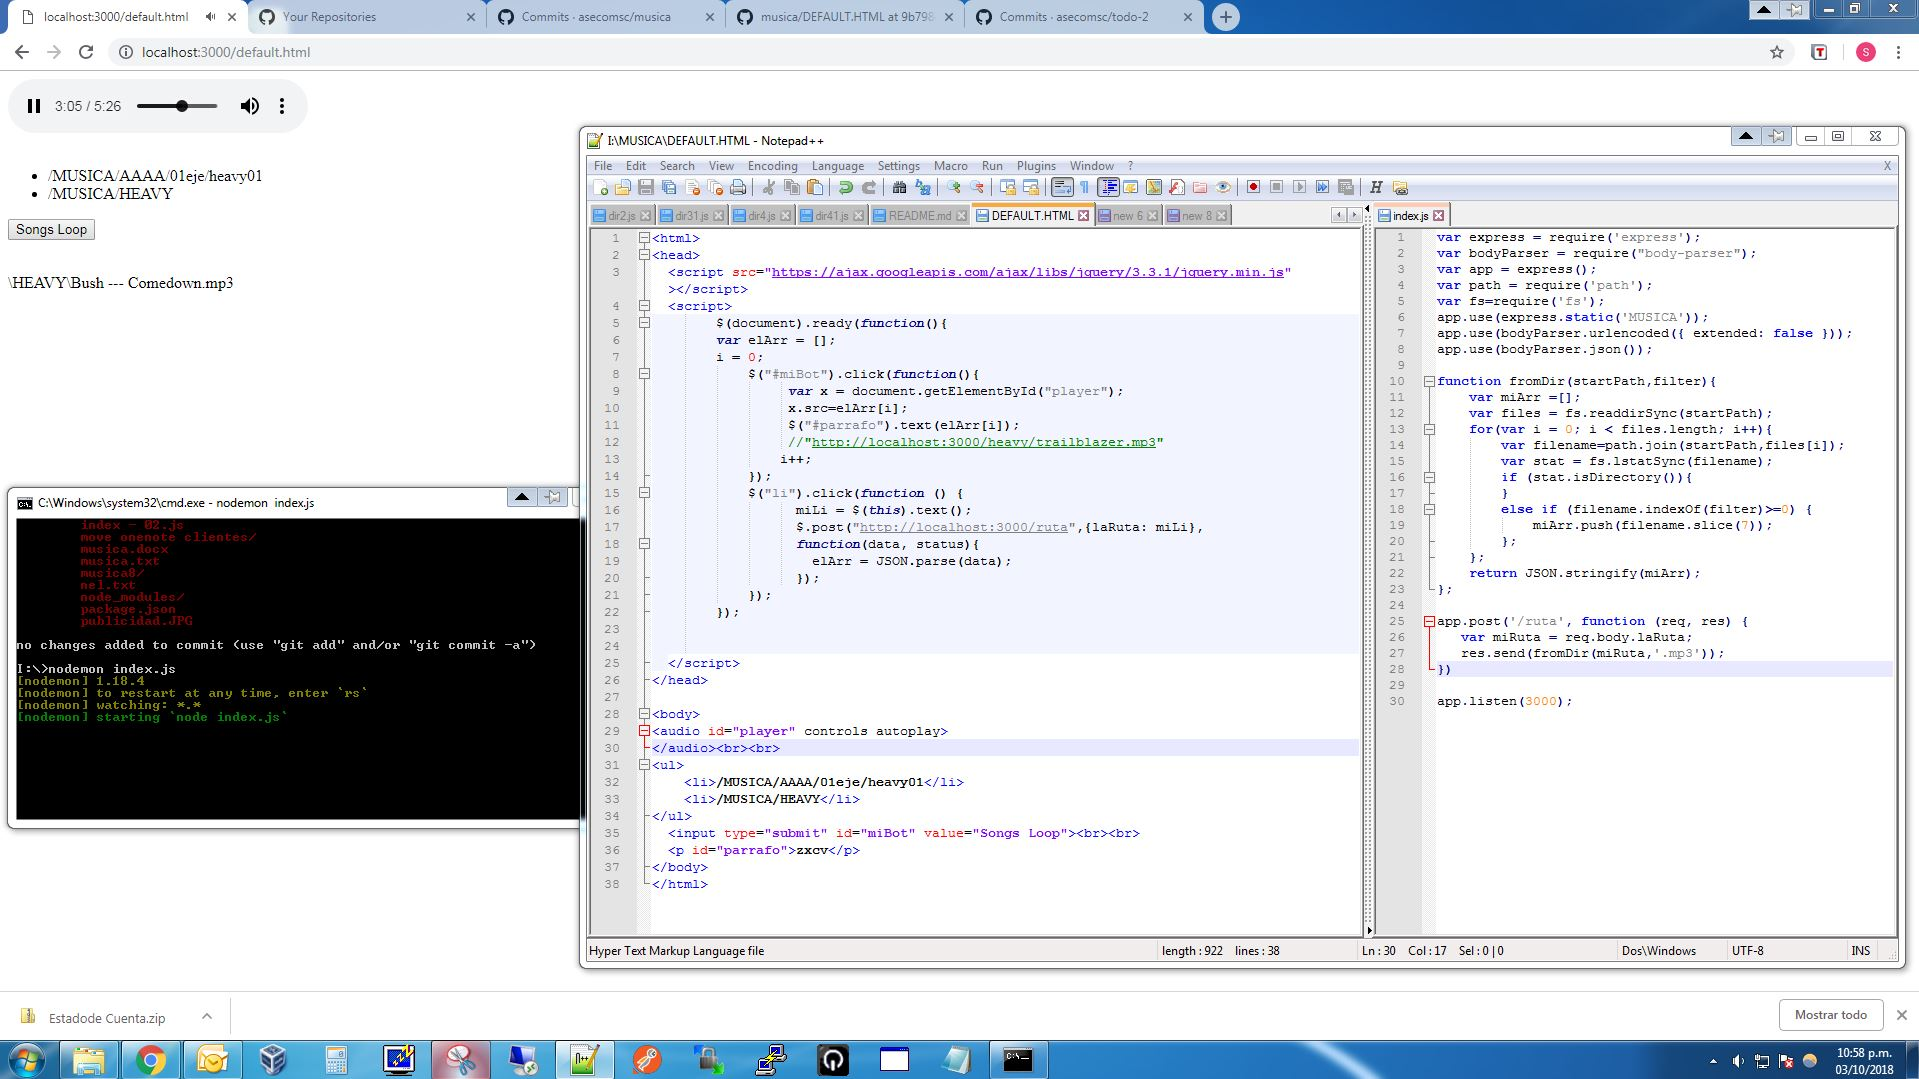
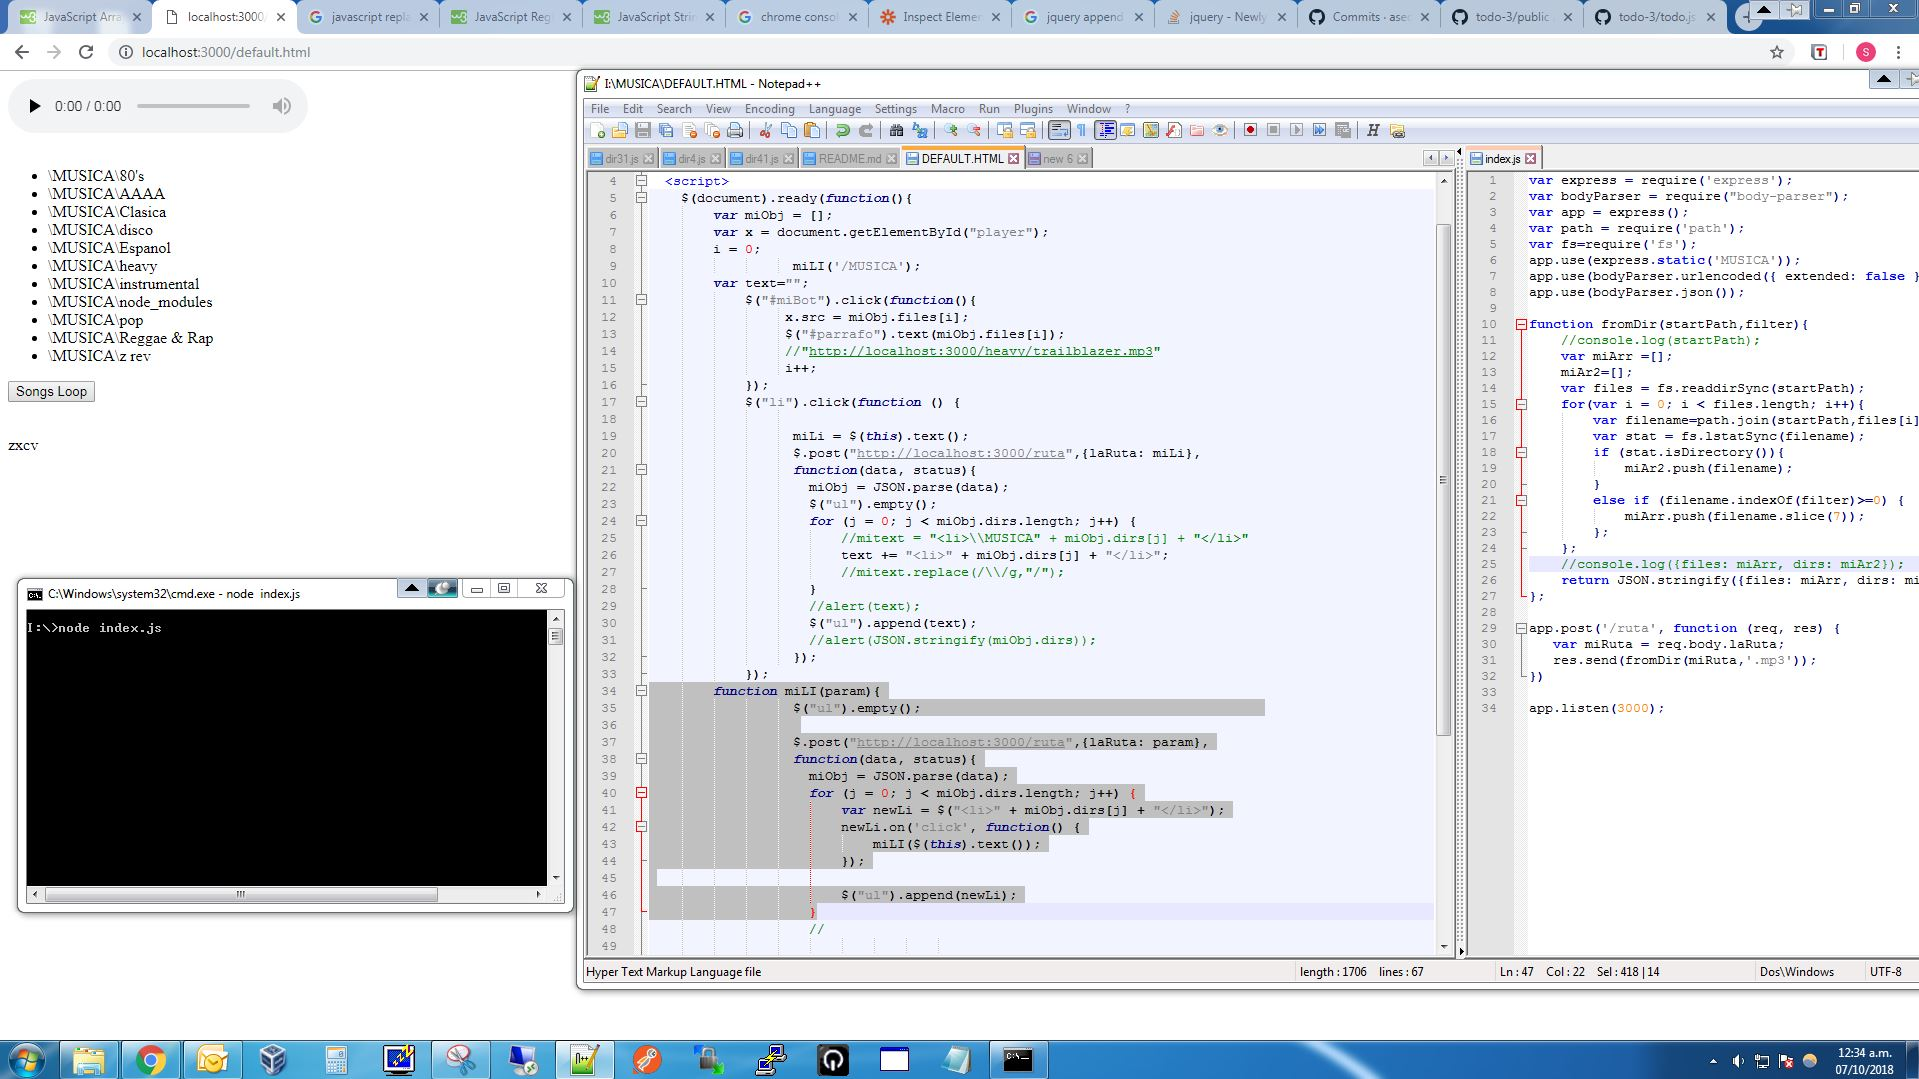
v1.6 YA SE PUEDE NAVEGAR EN LOS DIRECTORIOS

diff --git a/musica/DEFAULT.HTML b/musica/DEFAULT.HTML
@@ -2,24 +2,55 @@
 <head>
   <script src="https://ajax.googleapis.com/ajax/libs/jquery/3.3.1/jquery.min.js"></script>
   <script>
-		$(document).ready(function(){
-		var elArr = [];		
+	$(document).ready(function(){
+		var miObj = [];		
+		var x = document.getElementById("player");
 		i = 0;
+			      miLI('/MUSICA');
+		var text="";
 			$("#miBot").click(function(){
-			     var x = document.getElementById("player");
-				 x.src=elArr[i];
-				 $("#parrafo").text(elArr[i]);
+				 x.src = miObj.files[i];
+				 $("#parrafo").text(miObj.files[i]);
 				 //"http://localhost:3000/heavy/trailblazer.mp3"
-				i++;
+				 i++;
 			});
             $("li").click(function () {
+
 				  miLi = $(this).text();
 				  $.post("http://localhost:3000/ruta",{laRuta: miLi},
 				  function(data, status){
-					elArr = JSON.parse(data);
-				  });				
-            });			
-		});
+					miObj = JSON.parse(data);
+					$("ul").empty();
+					for (j = 0; j < miObj.dirs.length; j++) {
+					    //mitext = "<li>\\MUSICA" + miObj.dirs[j] + "</li>"
+				        text += "<li>" + miObj.dirs[j] + "</li>";
+						//mitext.replace(/\\/g,"/");
+					}
+					//alert(text);
+					$("ul").append(text);
+					//alert(JSON.stringify(miObj.dirs));
+				  });
+            });	
+		function miLI(param){
+				  $("ul").empty();											
+				  
+				  $.post("http://localhost:3000/ruta",{laRuta: param},
+				  function(data, status){
+					miObj = JSON.parse(data);
+					for (j = 0; j < miObj.dirs.length; j++) {
+				        var newLi = $("<li>" + miObj.dirs[j] + "</li>");
+						newLi.on('click', function() {
+							miLI($(this).text());
+						});
+
+						$("ul").append(newLi);
+					}
+					//
+										
+					//console.log(text);
+				  });
+		}
+	});
 
 		
   </script>  
@@ -29,8 +60,6 @@
 <audio id="player" controls autoplay>
 </audio><br><br>
 <ul>
-    <li>/MUSICA/AAAA/01eje/heavy01</li>
-    <li>/MUSICA/HEAVY</li>	
 </ul>
   <input type="submit" id="miBot" value="Songs Loop"><br><br>
   <p id="parrafo">zxcv</p>

diff --git a/index.js b/index.js
@@ -8,18 +8,22 @@ app.use(bodyParser.urlencoded({ extended: false }));
 app.use(bodyParser.json());
 
 function fromDir(startPath,filter){
+	//console.log(startPath);
 	var miArr =[];
+	miAr2=[];
     var files = fs.readdirSync(startPath);
     for(var i = 0; i < files.length; i++){
 		var filename=path.join(startPath,files[i]);
         var stat = fs.lstatSync(filename);
         if (stat.isDirectory()){
+			miAr2.push(filename);
         }
         else if (filename.indexOf(filter)>=0) {
 			miArr.push(filename.slice(7));
         };		
     };
-	return JSON.stringify(miArr);
+	//console.log({files: miArr, dirs: miAr2});
+	return JSON.stringify({files: miArr, dirs: miAr2});
 };
 
 app.post('/ruta', function (req, res) {

diff --git a/README.md b/README.md
@@ -1,3 +1,6 @@
+## 2018-10-07
+* v1.6 YA SE PUEDE NAVEGAR EN LOS DIRECTORIOS, falta afinar varios detalles
+
 ## 2018-10-03
 * v1.6 li.click carga JSON ARRAY y con button SE ESCUCHA cada cancion
 
